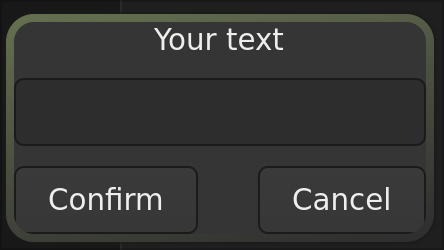
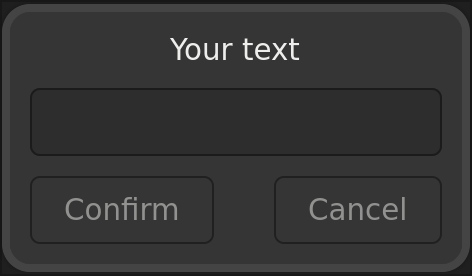
add padding to dialog window

diff --git a/main.c b/main.c
@@ -37,6 +37,10 @@ void on_activate() {
   gtk_window_set_application(win, app);
 
   GtkWidget *form = gtk_box_new(GTK_ORIENTATION_VERTICAL, 10);
+  gtk_widget_set_margin_top(form, 10);
+  gtk_widget_set_margin_bottom(form, 10);
+  gtk_widget_set_margin_start(form, 10);
+  gtk_widget_set_margin_end(form, 10);
   gtk_window_set_child(win, form);
 
   GtkWidget *label = gtk_label_new(header);
